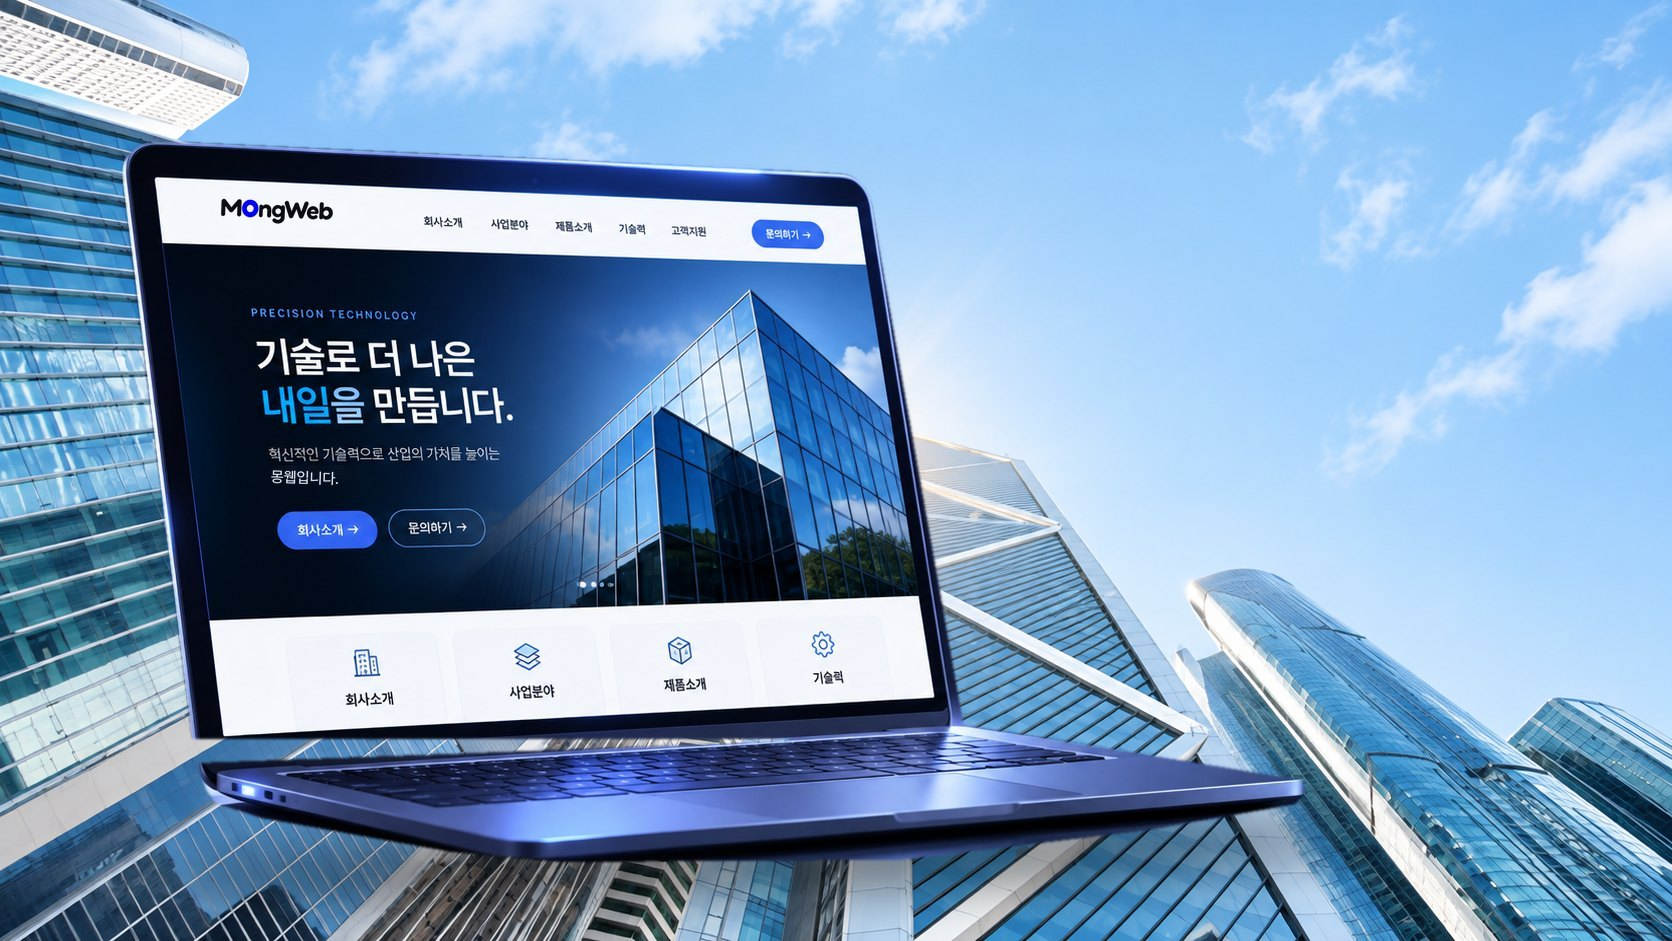
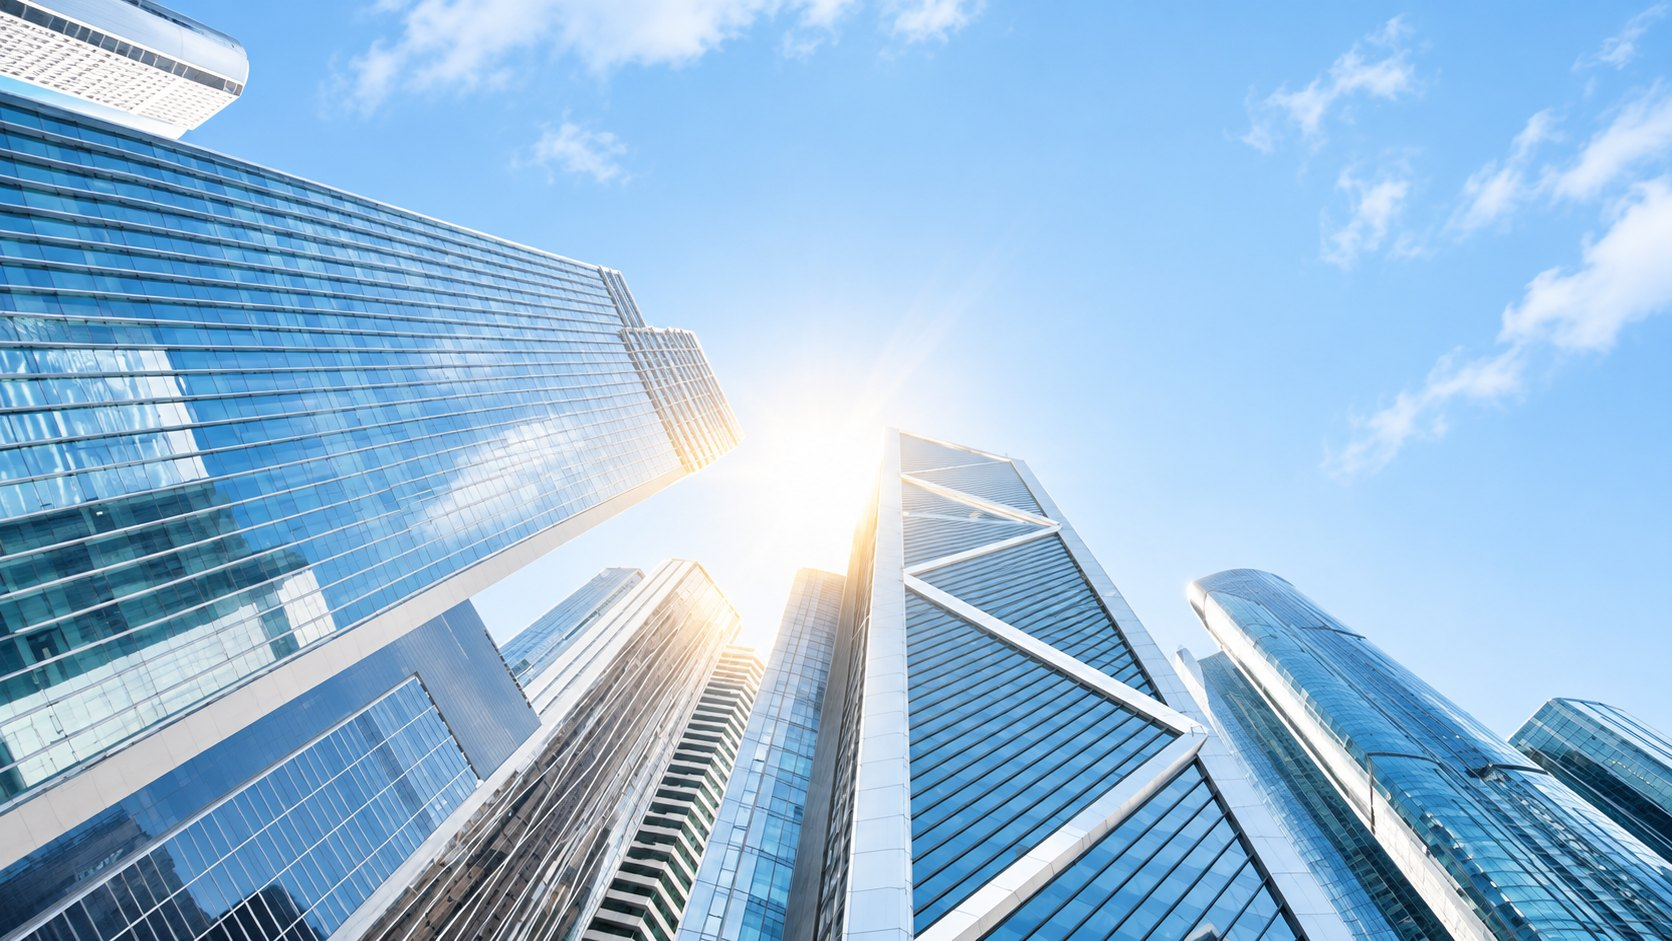
메인 업종 패널 01: 노트북 없이 하늘·빌딩 사진만 배경으로
Claude-Session: https://claude.ai/code/session_01M1b62wYPapP5RB8WQrccVh

diff --git a/public/css/v2.css b/public/css/v2.css
@@ -1341,6 +1341,7 @@ html.ed-on .dt-faq details p{display:block}
   .bizp__viz--photo img{object-position:30% 50%}
   .bizp:has(.bizp__viz--photo) .bizp__scrim{background:linear-gradient(0deg,#070a1f 0%,#070a1f 42%,rgba(7,10,31,.55) 52%,transparent 66%)}
 }
+.bizp__viz--sky img{object-position:50% 50%}
 /* 업종 패널 01 — 하늘·빌딩 배경: 밝은 배경 위 흰 글자가 읽히도록 오른쪽을 더 어둡게 */
 .bizp:has(.bizp__viz--sky) .bizp__scrim{background:
    linear-gradient(-90deg,rgba(6,10,28,.86) 0%,rgba(6,10,28,.62) 24%,rgba(6,10,28,.18) 48%,transparent 62%),

diff --git a/app/Views/site/pages/index.php b/app/Views/site/pages/index.php
@@ -25,7 +25,7 @@
 <link rel="icon" type="image/png" href="assets/favicon.png">
 <link rel="preconnect" href="https://cdn.jsdelivr.net" crossorigin>
 <link rel="stylesheet" href="https://cdn.jsdelivr.net/gh/orioncactus/pretendard@v1.3.9/dist/web/variable/pretendardvariable-dynamic-subset.min.css">
-<link rel="stylesheet" href="css/v2.css?v=20261118a">
+<link rel="stylesheet" href="css/v2.css?v=20261118b">
 </head>
 <body class="home">
 <a class="skip" href="#top">본문 바로가기</a>
@@ -190,7 +190,7 @@
 
   <!-- 01 기업 홈페이지 -->
   <article class="bizp rv" data-nav="dark">
-    <div class="bizp__viz bizp__viz--photo bizp__viz--sky"><img src="assets/biz-corporate-sky.jpg" alt="기업 홈페이지가 열린 노트북" width="1672" height="941" loading="lazy"></div>
+    <div class="bizp__viz bizp__viz--photo bizp__viz--sky"><img src="assets/biz-corporate-sky.jpg" alt="하늘을 향해 솟은 유리 빌딩들" width="1672" height="941" loading="lazy"></div>
     <div class="bizp__scrim"></div>
     <div class="bizp__body"><div class="bizp__c">
       <span class="bizp__no">01</span><span class="bizp__en">Corporate Website</span>

diff --git a/app/Views/site/news_view.php b/app/Views/site/news_view.php
@@ -25,7 +25,7 @@
 <link rel="icon" type="image/png" href="<?= base_url('assets/favicon.png') ?>">
 <link rel="preconnect" href="https://cdn.jsdelivr.net" crossorigin>
 <link rel="stylesheet" href="https://cdn.jsdelivr.net/gh/orioncactus/pretendard@v1.3.9/dist/web/variable/pretendardvariable-dynamic-subset.min.css">
-<link rel="stylesheet" href="<?= base_url('css/v2.css?v=20261118a') ?>">
+<link rel="stylesheet" href="<?= base_url('css/v2.css?v=20261118b') ?>">
 </head>
 <body class="sub">
 <a class="skip" href="#main">본문 바로가기</a>

diff --git a/app/Views/site/recruit_view.php b/app/Views/site/recruit_view.php
@@ -25,7 +25,7 @@
 <link rel="icon" type="image/png" href="<?= base_url('assets/favicon.png') ?>">
 <link rel="preconnect" href="https://cdn.jsdelivr.net" crossorigin>
 <link rel="stylesheet" href="https://cdn.jsdelivr.net/gh/orioncactus/pretendard@v1.3.9/dist/web/variable/pretendardvariable-dynamic-subset.min.css">
-<link rel="stylesheet" href="<?= base_url('css/v2.css?v=20261118a') ?>">
+<link rel="stylesheet" href="<?= base_url('css/v2.css?v=20261118b') ?>">
 </head>
 <body class="sub">
 <a class="skip" href="#main">본문 바로가기</a>

diff --git a/app/Views/site/pages/en/about.php b/app/Views/site/pages/en/about.php
@@ -25,7 +25,7 @@
 <link rel="icon" type="image/png" href="../assets/favicon.png">
 <link rel="preconnect" href="https://cdn.jsdelivr.net" crossorigin>
 <link rel="stylesheet" href="https://cdn.jsdelivr.net/gh/orioncactus/pretendard@v1.3.9/dist/web/variable/pretendardvariable-dynamic-subset.min.css">
-<link rel="stylesheet" href="../css/v2.css?v=20261118a">
+<link rel="stylesheet" href="../css/v2.css?v=20261118b">
 </head>
 <body class="sub">
 <a class="skip" href="#main">Skip to content</a>

diff --git a/app/Views/site/pages/en/business.php b/app/Views/site/pages/en/business.php
@@ -25,7 +25,7 @@
 <link rel="icon" type="image/png" href="../assets/favicon.png">
 <link rel="preconnect" href="https://cdn.jsdelivr.net" crossorigin>
 <link rel="stylesheet" href="https://cdn.jsdelivr.net/gh/orioncactus/pretendard@v1.3.9/dist/web/variable/pretendardvariable-dynamic-subset.min.css">
-<link rel="stylesheet" href="../css/v2.css?v=20261118a">
+<link rel="stylesheet" href="../css/v2.css?v=20261118b">
 </head>
 <body class="sub">
 <a class="skip" href="#main">Skip to content</a>

diff --git a/app/Views/site/pages/en/contact.php b/app/Views/site/pages/en/contact.php
@@ -25,7 +25,7 @@
 <link rel="icon" type="image/png" href="../assets/favicon.png">
 <link rel="preconnect" href="https://cdn.jsdelivr.net" crossorigin>
 <link rel="stylesheet" href="https://cdn.jsdelivr.net/gh/orioncactus/pretendard@v1.3.9/dist/web/variable/pretendardvariable-dynamic-subset.min.css">
-<link rel="stylesheet" href="../css/v2.css?v=20261118a">
+<link rel="stylesheet" href="../css/v2.css?v=20261118b">
 </head>
 <body class="sub">
 <a class="skip" href="#main">Skip to content</a>

diff --git a/app/Views/site/pages/en/news.php b/app/Views/site/pages/en/news.php
@@ -25,7 +25,7 @@
 <link rel="icon" type="image/png" href="../assets/favicon.png">
 <link rel="preconnect" href="https://cdn.jsdelivr.net" crossorigin>
 <link rel="stylesheet" href="https://cdn.jsdelivr.net/gh/orioncactus/pretendard@v1.3.9/dist/web/variable/pretendardvariable-dynamic-subset.min.css">
-<link rel="stylesheet" href="../css/v2.css?v=20261118a">
+<link rel="stylesheet" href="../css/v2.css?v=20261118b">
 </head>
 <body class="sub">
 <a class="skip" href="#main">Skip to content</a>

diff --git a/app/Views/site/pages/en/privacy.php b/app/Views/site/pages/en/privacy.php
@@ -25,7 +25,7 @@
 <link rel="icon" type="image/png" href="../assets/favicon.png">
 <link rel="preconnect" href="https://cdn.jsdelivr.net" crossorigin>
 <link rel="stylesheet" href="https://cdn.jsdelivr.net/gh/orioncactus/pretendard@v1.3.9/dist/web/variable/pretendardvariable-dynamic-subset.min.css">
-<link rel="stylesheet" href="../css/v2.css?v=20261118a">
+<link rel="stylesheet" href="../css/v2.css?v=20261118b">
 </head>
 <body class="sub">
 <a class="skip" href="#main">Skip to content</a>

diff --git a/app/Views/site/pages/en/projects.php b/app/Views/site/pages/en/projects.php
@@ -25,7 +25,7 @@
 <link rel="icon" type="image/png" href="../assets/favicon.png">
 <link rel="preconnect" href="https://cdn.jsdelivr.net" crossorigin>
 <link rel="stylesheet" href="https://cdn.jsdelivr.net/gh/orioncactus/pretendard@v1.3.9/dist/web/variable/pretendardvariable-dynamic-subset.min.css">
-<link rel="stylesheet" href="../css/v2.css?v=20261118a">
+<link rel="stylesheet" href="../css/v2.css?v=20261118b">
 </head>
 <body class="sub">
 <a class="skip" href="#main">Skip to content</a>

diff --git a/app/Views/site/pages/en/recruit.php b/app/Views/site/pages/en/recruit.php
@@ -25,7 +25,7 @@
 <link rel="icon" type="image/png" href="../assets/favicon.png">
 <link rel="preconnect" href="https://cdn.jsdelivr.net" crossorigin>
 <link rel="stylesheet" href="https://cdn.jsdelivr.net/gh/orioncactus/pretendard@v1.3.9/dist/web/variable/pretendardvariable-dynamic-subset.min.css">
-<link rel="stylesheet" href="../css/v2.css?v=20261118a">
+<link rel="stylesheet" href="../css/v2.css?v=20261118b">
 </head>
 <body class="sub">
 <a class="skip" href="#main">Skip to content</a>

diff --git a/app/Views/site/news.php b/app/Views/site/news.php
@@ -25,7 +25,7 @@
 <link rel="icon" type="image/png" href="assets/favicon.png">
 <link rel="preconnect" href="https://cdn.jsdelivr.net" crossorigin>
 <link rel="stylesheet" href="https://cdn.jsdelivr.net/gh/orioncactus/pretendard@v1.3.9/dist/web/variable/pretendardvariable-dynamic-subset.min.css">
-<link rel="stylesheet" href="css/v2.css?v=20261118a">
+<link rel="stylesheet" href="css/v2.css?v=20261118b">
 </head>
 <body class="sub">
 <a class="skip" href="#main">본문 바로가기</a>
